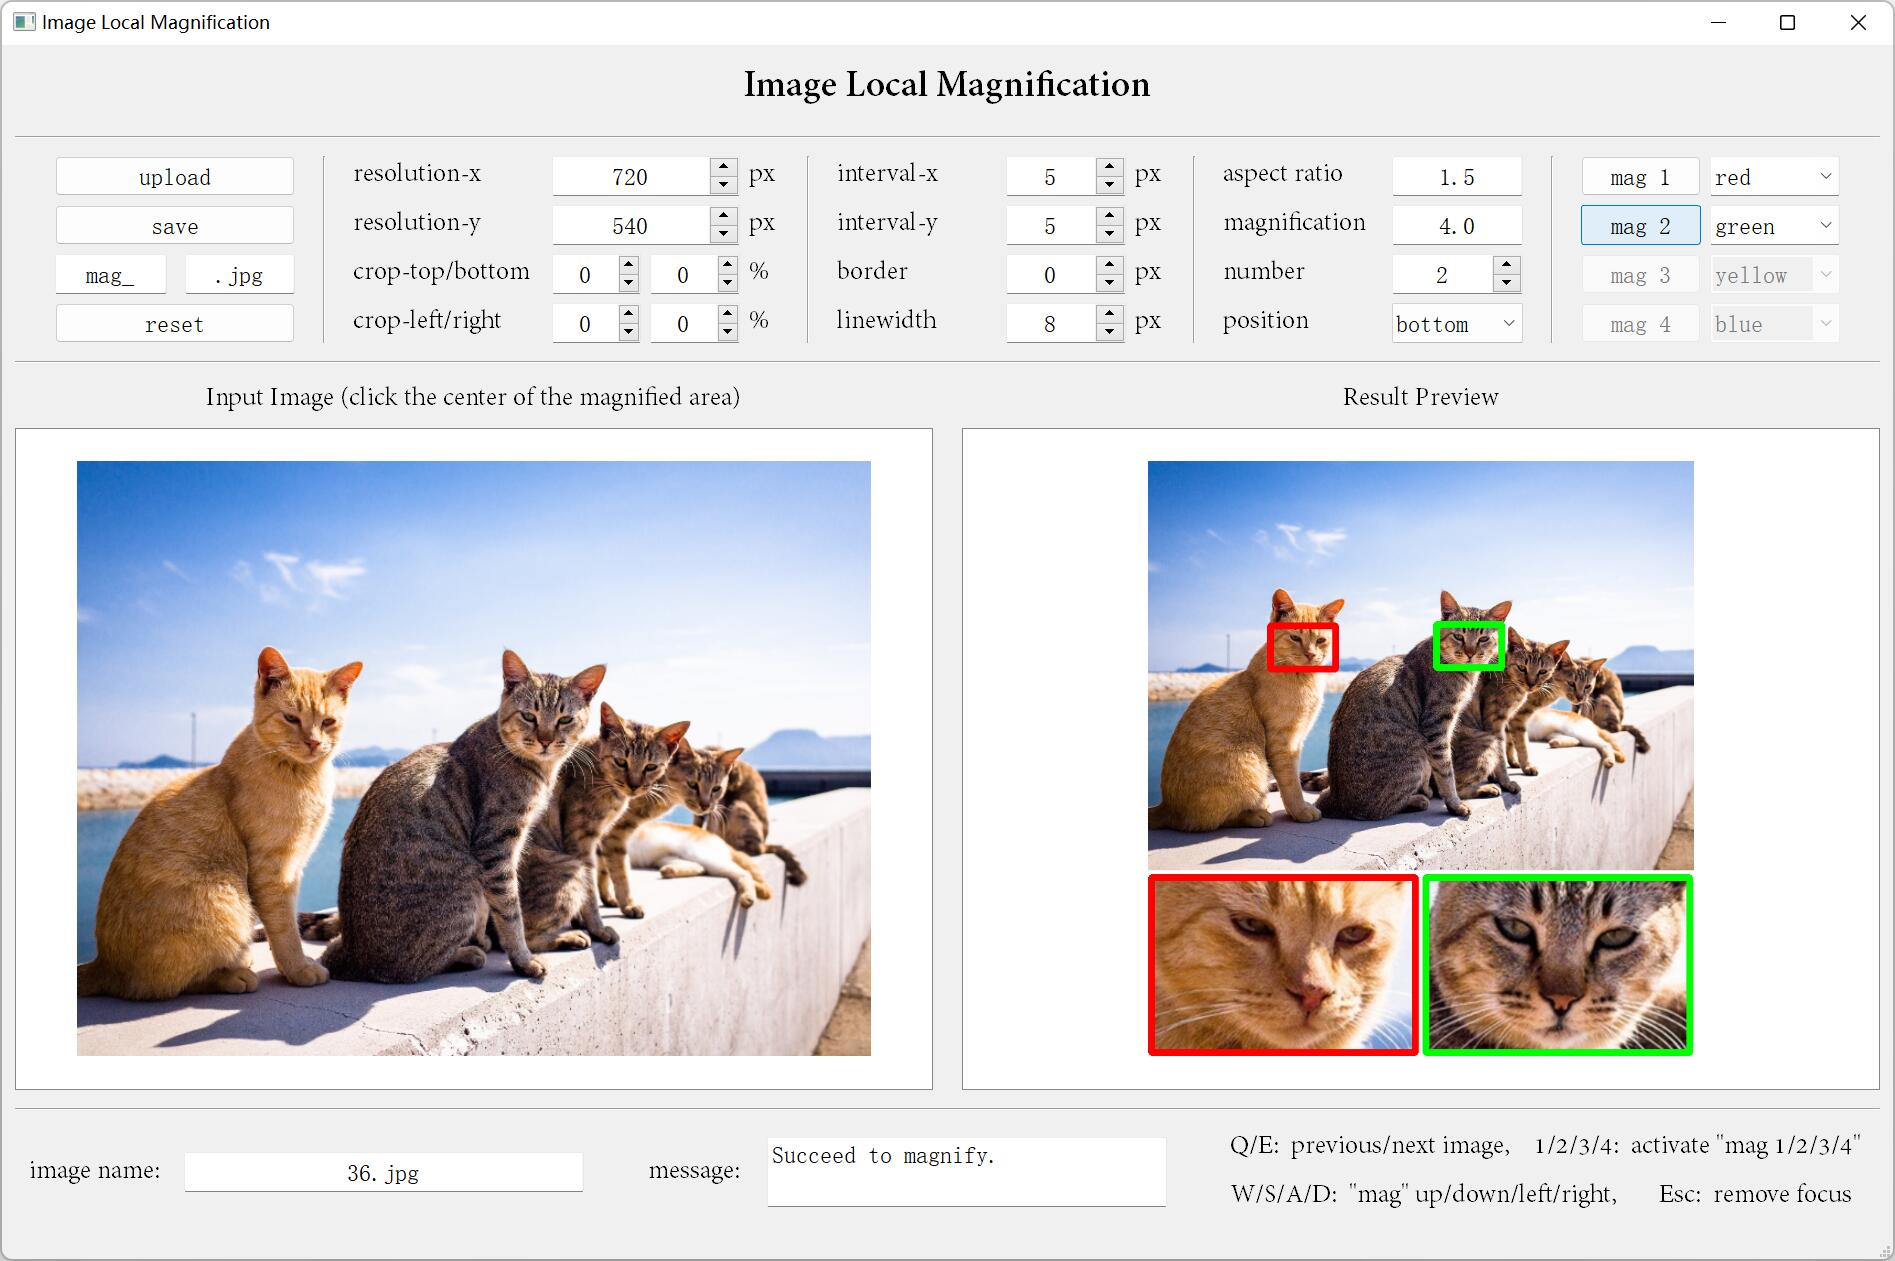
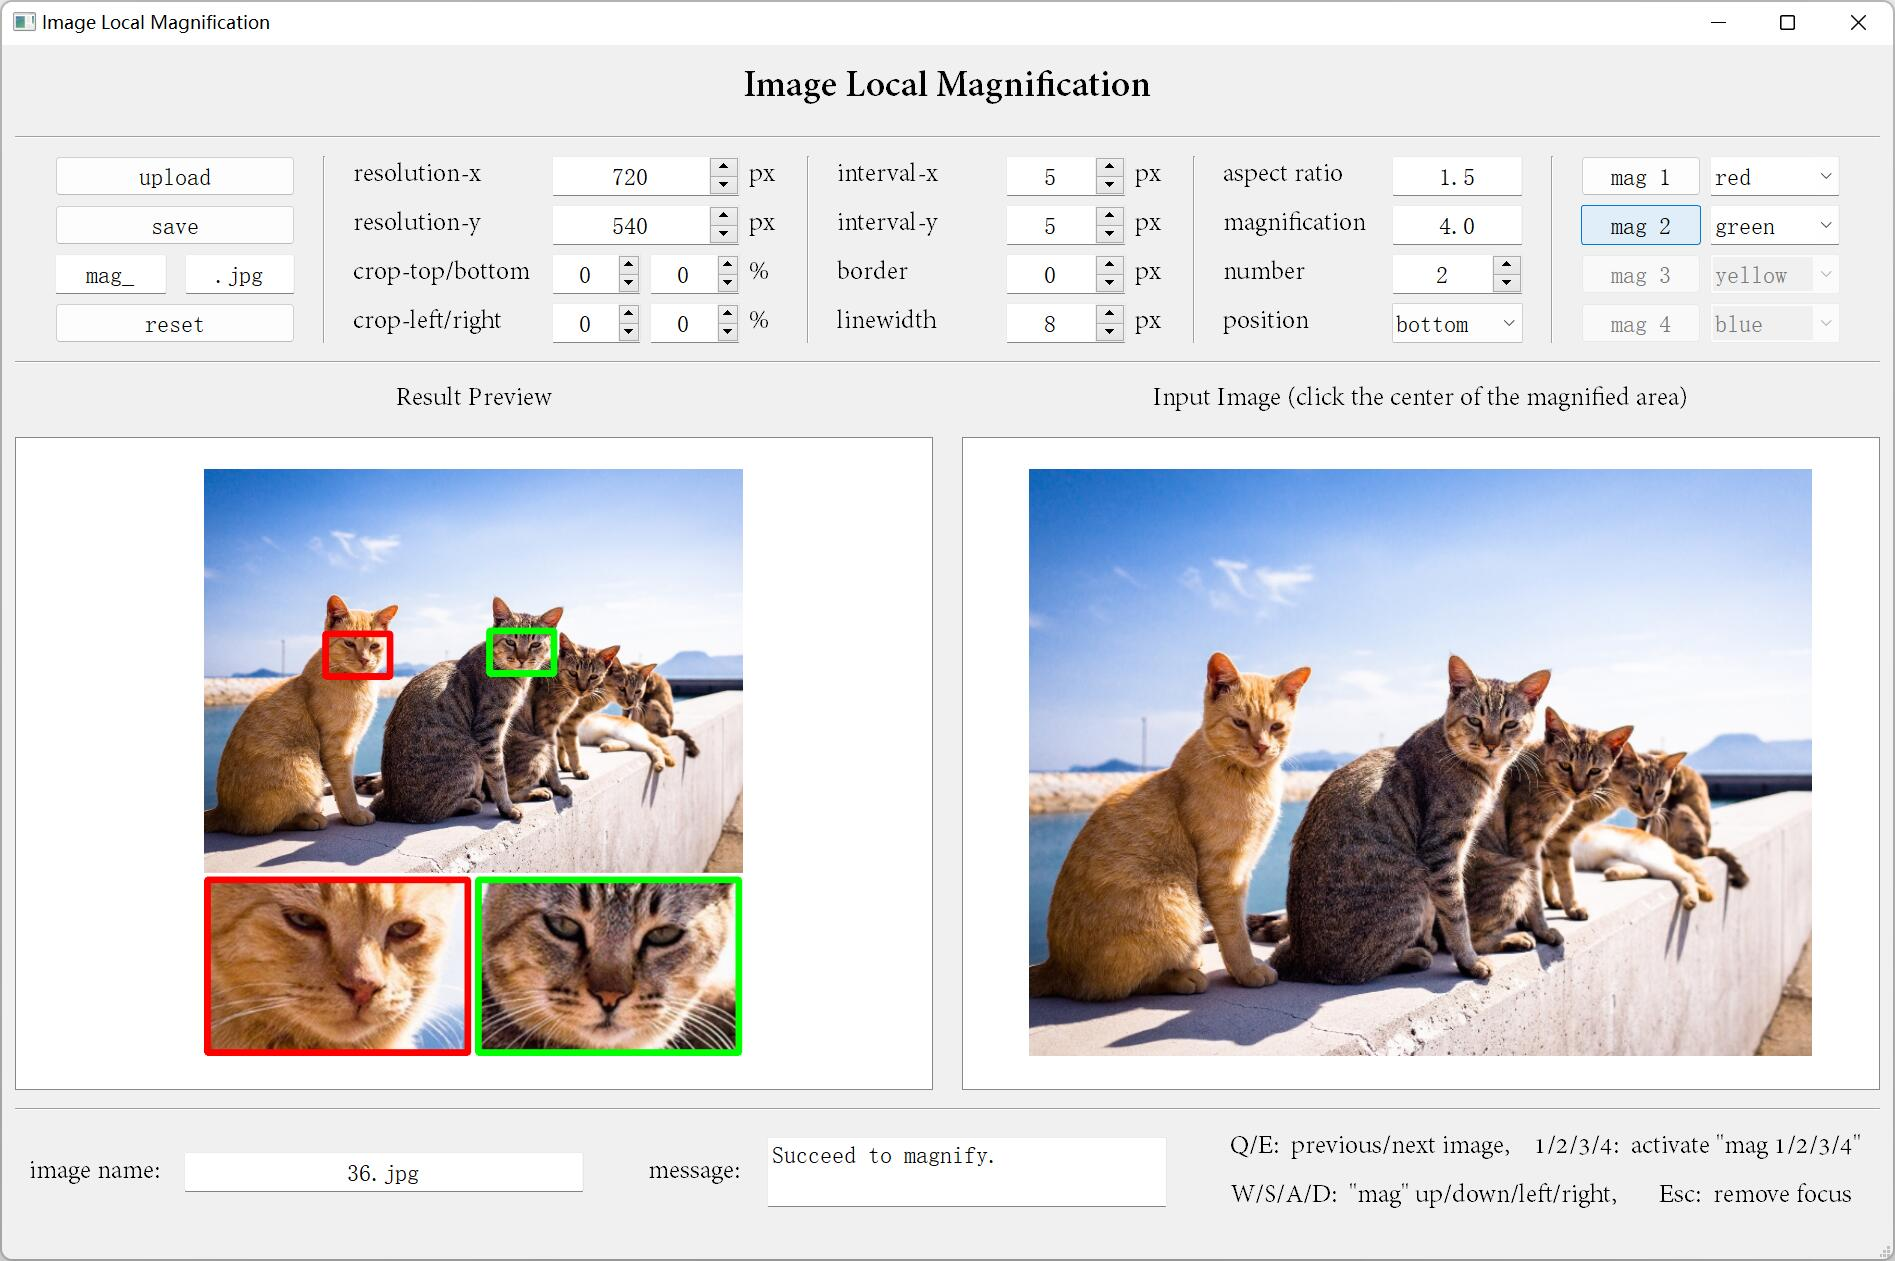
upload

Changed region(s): [[0.5293, 0.3093, 0.9652, 0.866], [0.0311, 0.3093, 0.467, 0.866]]

diff --git a/magnify.py b/magnify.py
@@ -903,10 +903,6 @@ class Ui_MainWindow(object):
         self.gridLayout_7.addWidget(self.line_5, 3, 0, 1, 1)
         self.gridLayout_6 = QtWidgets.QGridLayout()
         self.gridLayout_6.setObjectName("gridLayout_6")
-        self.graphicsView_selectarea = QtWidgets.QGraphicsView(self.centralwidget)
-        self.graphicsView_selectarea.setMinimumSize(QtCore.QSize(500, 300))
-        self.graphicsView_selectarea.setObjectName("graphicsView_selectarea")
-        self.gridLayout_6.addWidget(self.graphicsView_selectarea, 1, 0, 1, 1)
         self.label_22 = QtWidgets.QLabel(self.centralwidget)
         sizePolicy = QtWidgets.QSizePolicy(QtWidgets.QSizePolicy.Preferred, QtWidgets.QSizePolicy.Preferred)
         sizePolicy.setHorizontalStretch(0)
@@ -921,9 +917,9 @@ class Ui_MainWindow(object):
         self.label_22.setFont(font)
         self.label_22.setAlignment(QtCore.Qt.AlignCenter)
         self.label_22.setObjectName("label_22")
-        self.gridLayout_6.addWidget(self.label_22, 0, 2, 1, 1)
+        self.gridLayout_6.addWidget(self.label_22, 0, 1, 1, 1)
         spacerItem2 = QtWidgets.QSpacerItem(20, 638, QtWidgets.QSizePolicy.Minimum, QtWidgets.QSizePolicy.Expanding)
-        self.gridLayout_6.addItem(spacerItem2, 0, 1, 2, 1)
+        self.gridLayout_6.addItem(spacerItem2, 1, 2, 2, 1)
         self.label_21 = QtWidgets.QLabel(self.centralwidget)
         sizePolicy = QtWidgets.QSizePolicy(QtWidgets.QSizePolicy.Preferred, QtWidgets.QSizePolicy.Preferred)
         sizePolicy.setHorizontalStretch(0)
@@ -938,7 +934,11 @@ class Ui_MainWindow(object):
         self.label_21.setFont(font)
         self.label_21.setAlignment(QtCore.Qt.AlignCenter)
         self.label_21.setObjectName("label_21")
-        self.gridLayout_6.addWidget(self.label_21, 0, 0, 1, 1)
+        self.gridLayout_6.addWidget(self.label_21, 0, 3, 1, 1)
+        self.graphicsView_selectarea = QtWidgets.QGraphicsView(self.centralwidget)
+        self.graphicsView_selectarea.setMinimumSize(QtCore.QSize(500, 300))
+        self.graphicsView_selectarea.setObjectName("graphicsView_selectarea")
+        self.gridLayout_6.addWidget(self.graphicsView_selectarea, 2, 3, 1, 1)
         self.graphicsView_preview = QtWidgets.QGraphicsView(self.centralwidget)
         sizePolicy = QtWidgets.QSizePolicy(QtWidgets.QSizePolicy.Expanding, QtWidgets.QSizePolicy.Expanding)
         sizePolicy.setHorizontalStretch(0)
@@ -948,7 +948,7 @@ class Ui_MainWindow(object):
         self.graphicsView_preview.setMinimumSize(QtCore.QSize(500, 300))
         self.graphicsView_preview.setMaximumSize(QtCore.QSize(16777215, 16777215))
         self.graphicsView_preview.setObjectName("graphicsView_preview")
-        self.gridLayout_6.addWidget(self.graphicsView_preview, 1, 2, 1, 1)
+        self.gridLayout_6.addWidget(self.graphicsView_preview, 2, 1, 1, 1)
         self.gridLayout_7.addLayout(self.gridLayout_6, 4, 0, 1, 1)
         self.line_7 = QtWidgets.QFrame(self.centralwidget)
         self.line_7.setMinimumSize(QtCore.QSize(0, 20))

diff --git a/README.md b/README.md
@@ -36,6 +36,6 @@ python main.py
 - `keyboard W/S/A/D` : fine-tune the position of the magnified area (conditioned on removing focus)
 - `keyboard 1/2/3/4` : activate different magnification windows (conditioned on removing focus)
 
-After activating one magnification window, you can click the center of the magnified area in the left image to determine where to magnifiy. If the magnified area exceeds the range of the cropped original image, the corresponding magnification window will not display.
+After activating one magnification window, you can click the center of the magnified area in the right image to determine where to magnifiy. If the magnified area exceeds the range of the cropped original image, the corresponding magnification window will not display.
 
 If you encounter any bug or have any advice, please feel free to create an issue.
